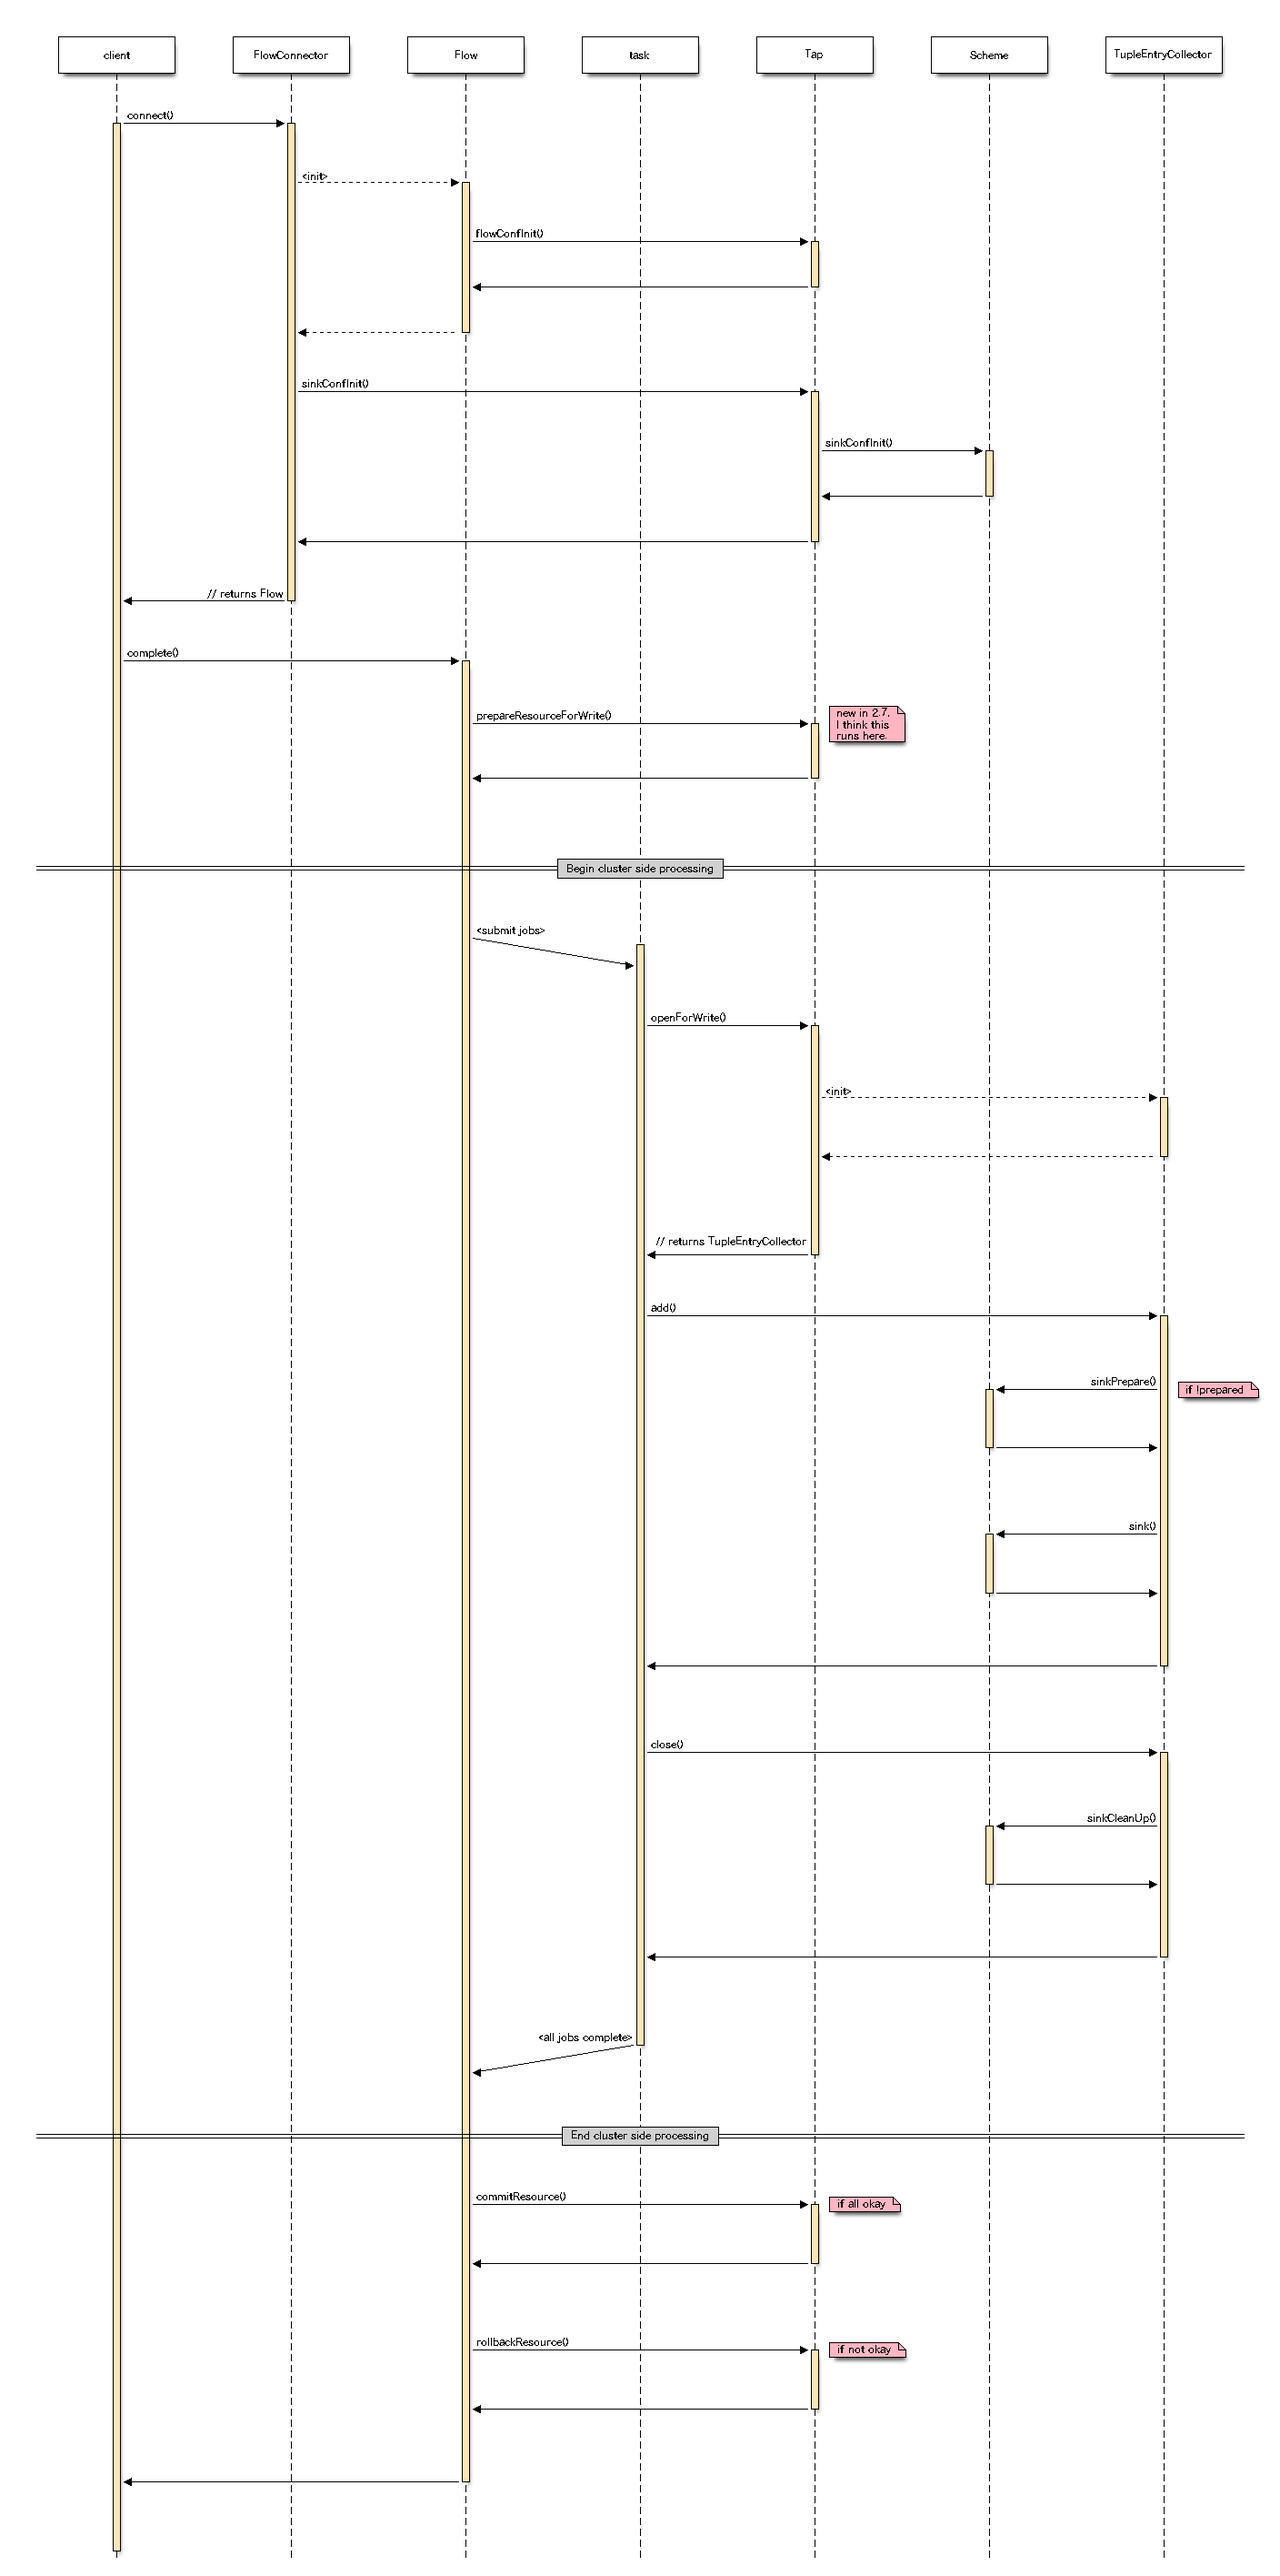
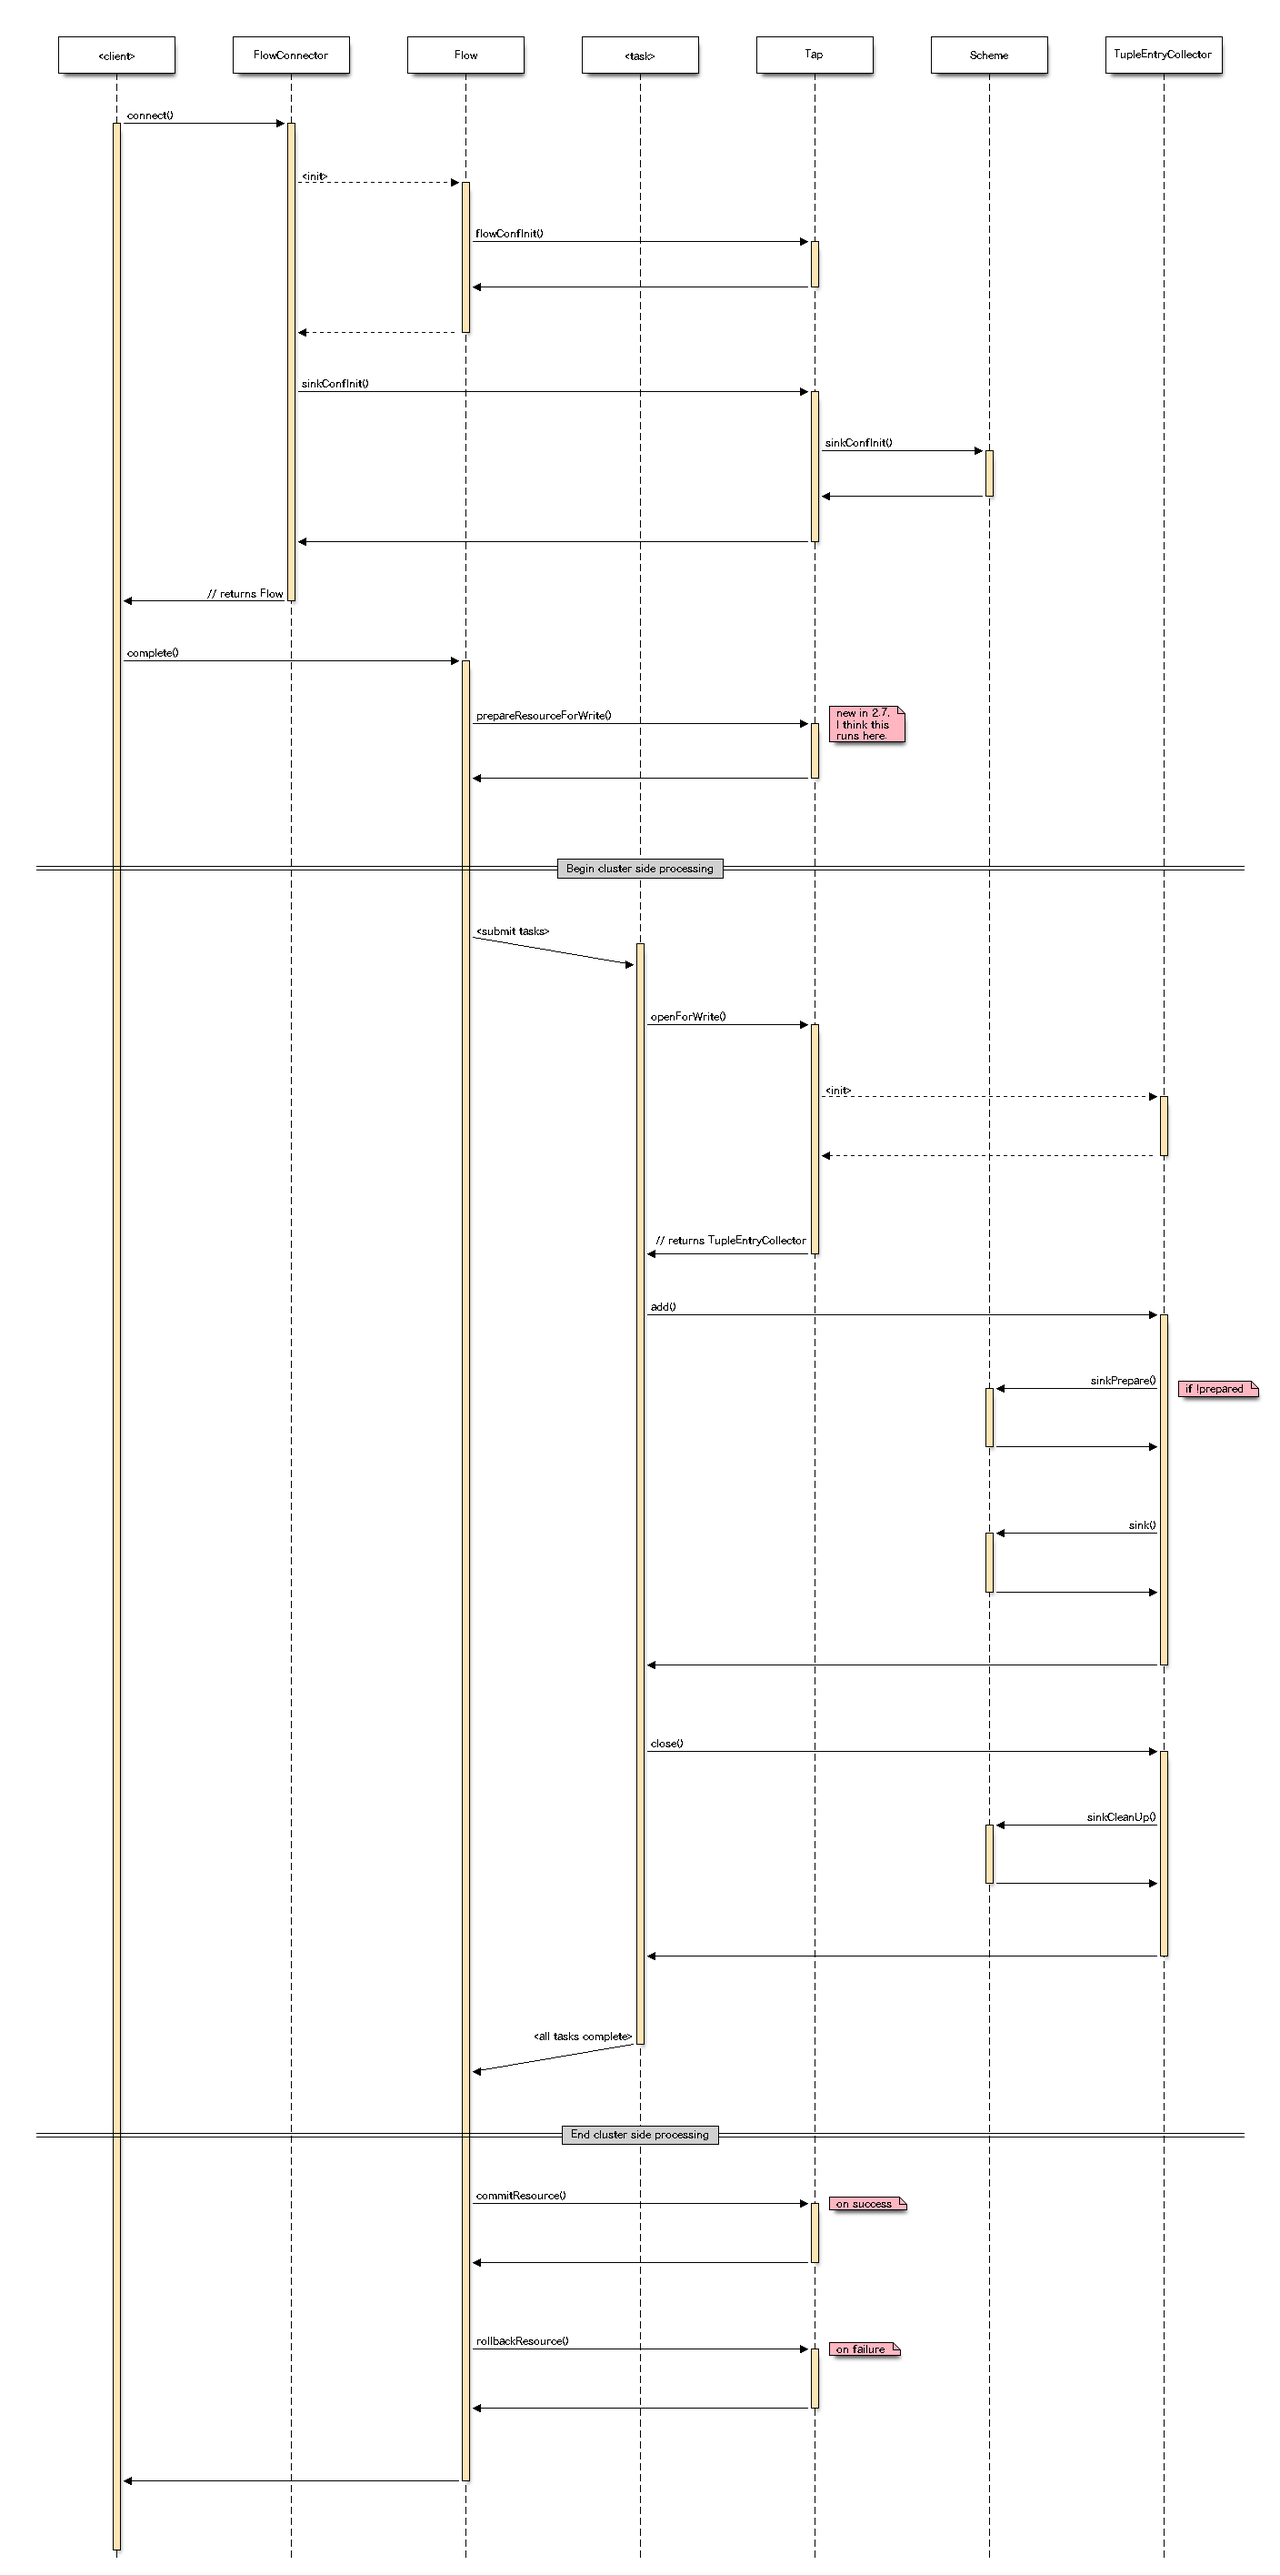
client/task

Changed region(s): [[0.6562, 0.9014, 0.7188, 0.9325], [0.6562, 0.8393, 0.6875, 0.8704]]

diff --git a/README.md b/README.md
@@ -1,7 +1,7 @@
 #Overview
 Created with [seqdiag](http://blockdiag.com/en/seqdiag/) and excessive use of `^⌥H` in Eclipse.
 
-Note that within the diagrams the 'client' and 'task' components represent the tool and job-task in MapReduce nomenclature. These are considered an abstract boundary point because as Cascading developers we rarely care, understand, or know what these look like internally. They are considered black-boxes, implementing the Cascading runtime on some execution engine but execrising the public `Tap` API in a contractual manner. All other components map to their respective classes within the Cascading API.
+Note that within the diagrams the `<client>` and `<task>` components represent the tool and job-task in MapReduce nomenclature. These are considered an abstract boundary point because as Cascading developers we rarely care, understand, or know what these look like internally. They are considered black-boxes, implementing the Cascading runtime on some execution engine but exercising the public `Tap` API in a contractual manner. All other components map to their respective classes within the Cascading API.
 
 #Usage
     seqdiag source.diag ; open -a "Preview" source.png
